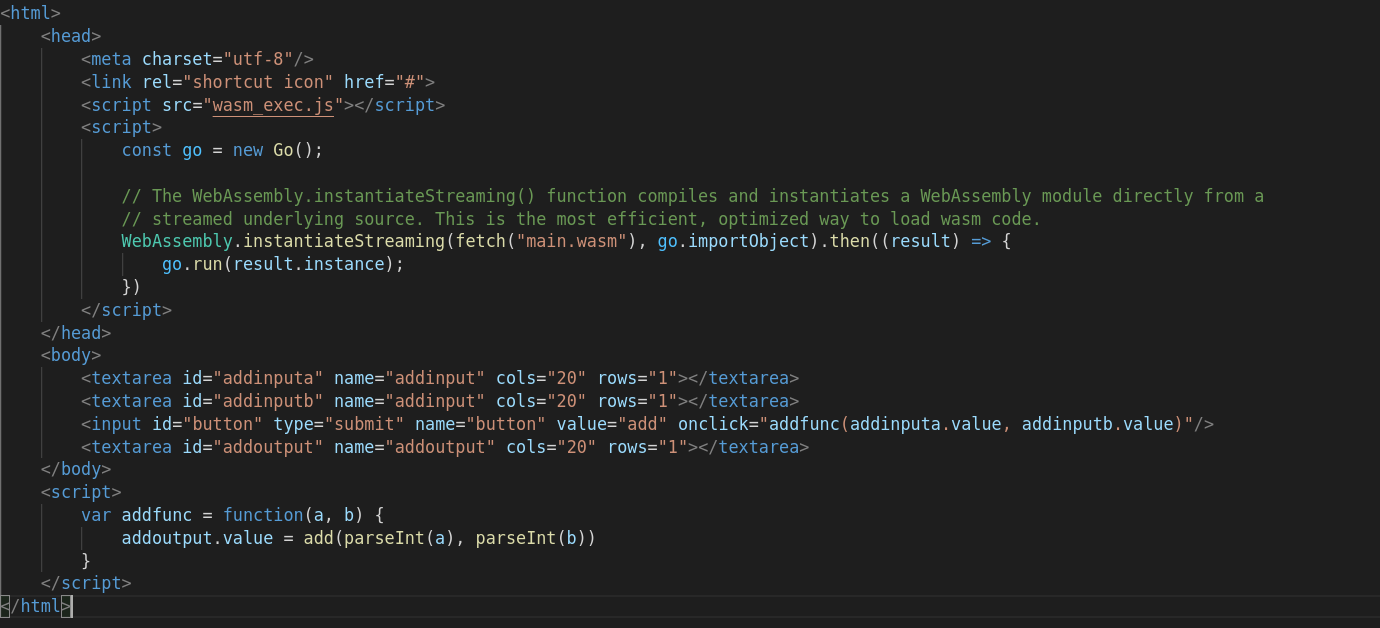
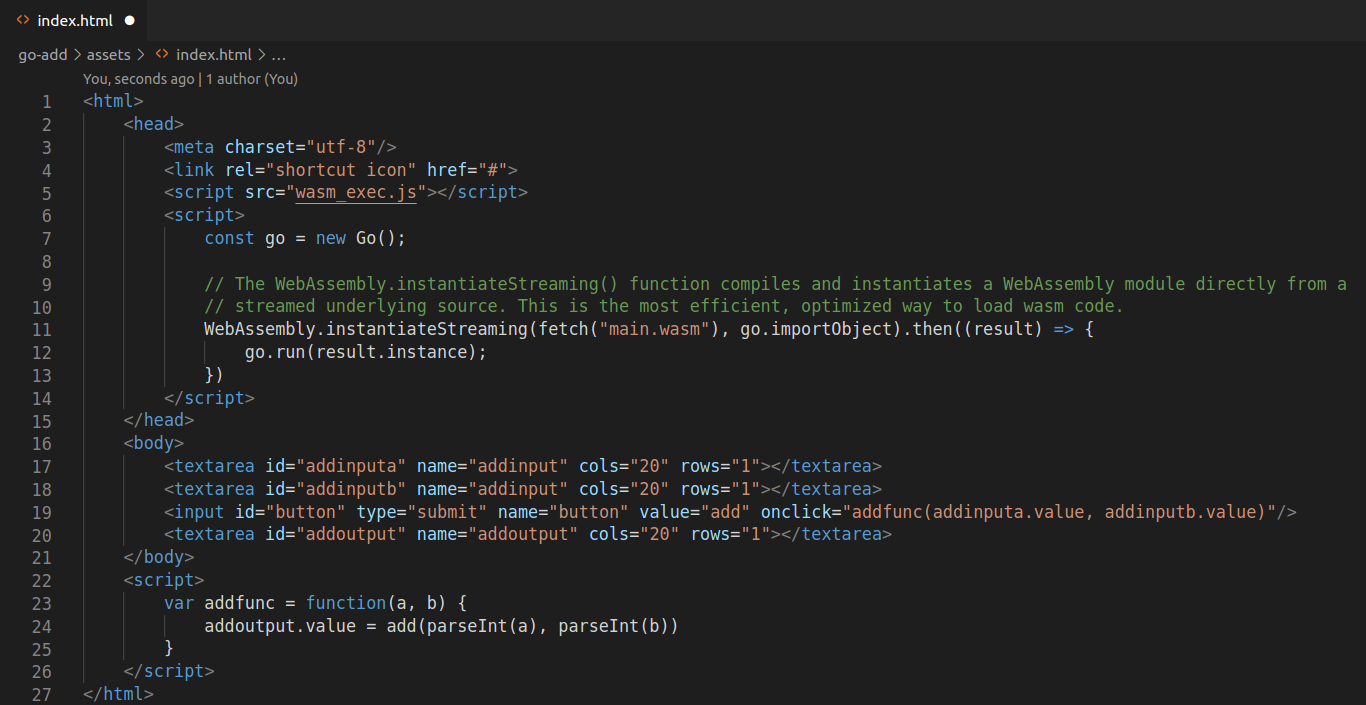
feat: Update Code snippets and graphics

Changed region(s): [[0.0, 0.0, 0.9839, 0.5143], [0.0307, 0.3631, 0.9224, 0.9076], [0.0, 0.8471, 0.1537, 0.9984]]

diff --git a/presentation/webassembly.tex b/presentation/webassembly.tex
@@ -29,11 +29,11 @@
 \begin{frame}{Motivation}
     \begin{figure}
         \includegraphics[width=0.7\textwidth,height=0.7\textheight]{./images/perf_history.png}
-        \caption{\href{https://hacks.mozilla.org/2017/02/a-cartoon-intro-to-webassembly/}{Performance-Entwicklung im Web-Kontext}}
+        \caption{\href{https://hacks.mozilla.org/2017/02/a-cartoon-intro-to-webassembly/}{Performance on the Web}}
     \end{figure}
 \end{frame}
 
-\section{Key Concepts}
+\section{Key Concepts} 
 
 \subsection{Definition}
 
@@ -146,6 +146,7 @@
         \item Jitsi for virtual backgrounds
         \item Zoom for video encoding
         \item \href{https://wasm.continuation-labs.com/d3demo/}{D3wasm}
+        \item go-app
         \item ...
     \end{itemize}
 \end{frame}
@@ -156,20 +157,13 @@
     \begin{itemize}
         \item Textual representation of the binary format to allow reading and editing by humans
         \item Designed to be exposed in text editors, browser developer tools, etc.
-    \end{itemize}
-    \begin{lstlisting}[language=Lisp,basicstyle=\scriptsize]
-(module
-  (func $add (param $lhs i32) (param $rhs i32) (result i32)
-    local.get $lhs
-    local.get $rhs
-    i32.add)
-  (export "add" (func $add))
-)
-    \end{lstlisting}
-    \begin{itemize}
         \item .wat files can be compiled to .wasm using the WebAssembly Binary Toolkit (WABT)
         \item For more information, consider visiting the \href{https://developer.mozilla.org/en-US/docs/WebAssembly/Understanding_the_text_format}{MDN Web Docs}
     \end{itemize}
+    \begin{figure}
+        \includegraphics[scale=0.3]{./images/wat.png}
+        \caption{WebAssembly Text}
+    \end{figure}
 \end{frame}
 
 \section{Demo}
@@ -184,42 +178,28 @@
 
 \end{frame}
 
-\begin{frame}[fragile]{Demo - File structure}
+\subsection{Hello World}
 
-    \begin{lstlisting}[language=Bash,basicstyle=\scriptsize]
-go/
-    assets/
-        index.html
-        main.wasm
-        wasm_exec.js
-    cmd/
-        server/
-            main.go
-        wasm/
-            main.go
-    \end{lstlisting}
+\begin{frame}{Demo - File structure}
+    \begin{figure}
+        \includegraphics[scale=0.5]{./images/structure.png}
+        \caption{File structure}
+    \end{figure}
 \end{frame}
 
-\begin{frame}[fragile]{Demo - main.go}
-    \begin{lstlisting}[language=Go,basicstyle=\scriptsize]
-package main
 
-import "fmt"
-
-func main() {
-	fmt.Println("Hello World!")
-}
-
-    \end{lstlisting}
+\begin{frame}{Demo - cmd/wasm/main.go}
+    \begin{figure}
+        \includegraphics[scale=0.5]{./images/main2.png}
+        \caption{main.go}
+    \end{figure}
 \end{frame}
-
-\subsection{Compilation}
 
 \begin{frame}[fragile]{Demo - Compilation}
     To compile your main.go to a WebAssembly main.wasm file, execute the following command in the wasm directory:
 
     \begin{lstlisting}[language=Bash,basicstyle=\scriptsize]
-$ GOOS=js GOARCH=wasm go build -o  ../../assets/main.wasm
+# GOOS=js GOARCH=wasm go build -o  ../../assets/main.wasm
     \end{lstlisting}
 
     You should now be able to locate a \lstinline{main.wasm} file inside your \lstinline{assets} folder.
@@ -229,70 +209,35 @@ $ GOOS=js GOARCH=wasm go build -o  ../../assets/main.wasm
     Some JavaScript code is needed to import the WebAssembly Module we just created in the Browser. Fortunately, this code comes with every Go installation. So just go ahead and copy the file into your \lstinline{assets} directory:
 
     \begin{lstlisting}[language=Bash,basicstyle=\scriptsize]
-$ cp "$(go env GOROOT)/misc/wasm/wasm_exec.js" .
+# cp "$(go env GOROOT)/misc/wasm/wasm_exec.js" .
 \end{lstlisting}
 \end{frame}
 
-% The WebAssembly.instantiateStreaming() function compiles and instantiates a WebAssembly module directly from a 
-% streamed underlying source. This is the most efficient, optimized way to load wasm code.
-\begin{frame}[fragile]{Demo - index.html}
-    \begin{lstlisting}[language=html,basicstyle=\scriptsize]
-<html>
-    <head>
-        <meta charset="utf-8"/>
-        <script src="wasm_exec.js"></script>
-        <script>
-            const go = new Go();
-
-            WebAssembly.instantiateStreaming(
-                fetch("main.wasm"), go.importObject
-            )
-            .then((result) => {
-                go.run(result.instance);
-            })
-        </script>
-    </head>
-    <body></body>
-</html>
-\end{lstlisting}
+\begin{frame}{Demo - assets/index.html}
+    \begin{figure}
+        \includegraphics[scale=0.2]{./images/idx.png}
+        \caption{index.html}
+    \end{figure}
 \end{frame}
 
-\begin{frame}[fragile]{Demo - cmd/server/main.go}
-    \begin{lstlisting}[language=html,basicstyle=\scriptsize]
-package main
-
-import (
-	"fmt"
-	"net/http"
-)
-
-func main() {
-    err := http.ListenAndServe(
-        ":9090", 
-        http.FileServer(http.Dir("../../assets"))
-    )
-    if err != nil {
-	fmt.Println("Failed to start server", err)
-	return
-    }
-}
-
-    \end{lstlisting}
+\begin{frame}{Demo - cmd/server/main.go}
+    \begin{figure}
+        \includegraphics[scale=0.3]{./images/server.png}
+        \caption{main.go}
+    \end{figure}
 \end{frame}
-
-\subsection{Execution}
 
 % Show resulting wasm file and code in the browser
 % Show rust demo as well - cargo install wasm-pack, wasm-pack build --target web
 \begin{frame}[fragile]{Demo - Execution}
     Now you can run your server and inspect the outcome. Make sure you are in the \lstinline{server} directory, when executing this command:
     \begin{lstlisting}[language=bash,basicstyle=\scriptsize]
-$ go run main.go
+# go run main.go
 \end{lstlisting}
 
     Now you should be able to inspect the result in your browser:
     \begin{figure}
-        \includegraphics[scale=0.3]{./images/demo.png}
+        \includegraphics[scale=0.2]{./images/demo.png}
         \caption{\href{https://hacks.mozilla.org/2017/02/a-cartoon-intro-to-webassembly/}{Performance-Entwicklung im Web-Kontext}}
     \end{figure}
 \end{frame}
@@ -303,7 +248,7 @@ $ go run main.go
     Essentially same procedure. Just exchange the contents of the following files:
     \begin{figure}
         \includegraphics[scale=0.2]{./images/main.png}
-        \caption{main.go}
+        \caption{cmd/wasm/main.go}
     \end{figure}
 
 \end{frame}
@@ -311,7 +256,7 @@ $ go run main.go
 \begin{frame}{Demo - Exports}
     \begin{figure}
         \includegraphics[scale=0.2]{./images/index.png}
-        \caption{index.html}
+        \caption{assets/index.html}
     \end{figure}
 
 \end{frame}
@@ -321,24 +266,24 @@ $ go run main.go
 \begin{frame}{Demo - Imports}
     Essentially same procedure. This time, exchange the contents of the following files:
     \begin{figure}
-        \includegraphics[scale=0.2]{./images/maingo.png}
-        \caption{main.go}
+        \includegraphics[scale=0.2]{./images/importmain.png}
+        \caption{cmd/wasm/main.go}
     \end{figure}
 
 \end{frame}
 
 \begin{frame}{Demo - Imports}
     \begin{figure}
-        \includegraphics[scale=0.25]{./images/jsindex.png}
-        \caption{index.html}
+        \includegraphics[scale=0.2]{./images/importindex.png}
+        \caption{assets/index.html}
     \end{figure}
 
 \end{frame}
 
 \begin{frame}{Demo - Imports}
     \begin{figure}
-        \includegraphics[scale=0.4]{./images/libjs.png}
-        \caption{lib.js}
+        \includegraphics[scale=0.4]{./images/lib.png}
+        \caption{assets/lib.js}
     \end{figure}
 
 \end{frame}
@@ -348,7 +293,7 @@ $ go run main.go
         \item Linear Memory - Continuous buffer of unsigned bytes that can be read from and stored into by both Wasm and Javascript
         \item Dom Manipulation - The syscall/js package can also be used to interact with the DOM. WASM can not directly interact with the DOM! It has to call JS!
         \item E.g. Rust is using wasm-bindgen to achieve the same as Go with syscall/js, AssemblyScript provides those features out of the box...
-        \item WASM function only support ints and floats. To work with other data types, linear memory can be used
+        \item WASM functions only support ints and floats. To work with other data types, linear memory can be used
     \end{itemize}
 \end{frame}
 
@@ -387,7 +332,7 @@ $ go run main.go
 
 \begin{frame}{Efficient and fast - Fetching}
     \begin{figure}
-        \includegraphics[scale=0.2]{./images/file.jpg}
+        \includegraphics[scale=0.15]{./images/download.png}
         \caption{\href{https://icon-library.com/icon/download-icon-file-4.html}{Fetch}}
     \end{figure}
     \begin{itemize}
@@ -549,32 +494,32 @@ $ go run main.go
 \begin{frame}[fragile]{Demo - wasmtime}
     \textbf{Install Rust:}
     \begin{lstlisting}[language=bash,basicstyle=\scriptsize]
-$ curl --proto '=https' --tlsv1.2 -sSf https://sh.rustup.rs | sh
+# curl --proto '=https' --tlsv1.2 -sSf https://sh.rustup.rs | sh
     \end{lstlisting}
 
     \textbf{Install wasmtime:}
     \begin{lstlisting}[language=bash,basicstyle=\scriptsize]
-$ curl https://wasmtime.dev/install.sh -sSf | bash
+# curl https://wasmtime.dev/install.sh -sSf | bash
     \end{lstlisting}
 
     \textbf{Add WebAssembly target to Rust:}
     \begin{lstlisting}[language=bash,basicstyle=\scriptsize]
-$ rustup target add wasm32-wasi
+# rustup target add wasm32-wasi
     \end{lstlisting}
 
     \textbf{Compile to WebAssembly:}
     \begin{lstlisting}[language=bash,basicstyle=\scriptsize]
-$ rustc main.rs --target wasm32-wasi
+# rustc main.rs --target wasm32-wasi
     \end{lstlisting}
 
     \textbf{Execute:}
     \begin{lstlisting}[language=bash,basicstyle=\scriptsize]
-$ wasmtime main.wasm
+# wasmtime main.wasm
 Hello World!
     \end{lstlisting}
 \end{frame}
 
-\subsection{WebAssembly System Interface - WASI}
+\subsection{WebAssembly System Interface}
 
 \begin{frame}{WebAssembly Sytem Interface - WASI}
     \begin{quotation}
@@ -618,7 +563,7 @@ Hello World!
     \end{figure}
 \end{frame}
 
-\subsection{WebAssembly Gateway Interface - WAGI}
+\subsection{WebAssembly Gateway Interface}
 % WAGI - Read infoq article
 \begin{frame}{WebAssembly Gateway Interface - WAGI}
     \begin{itemize}
